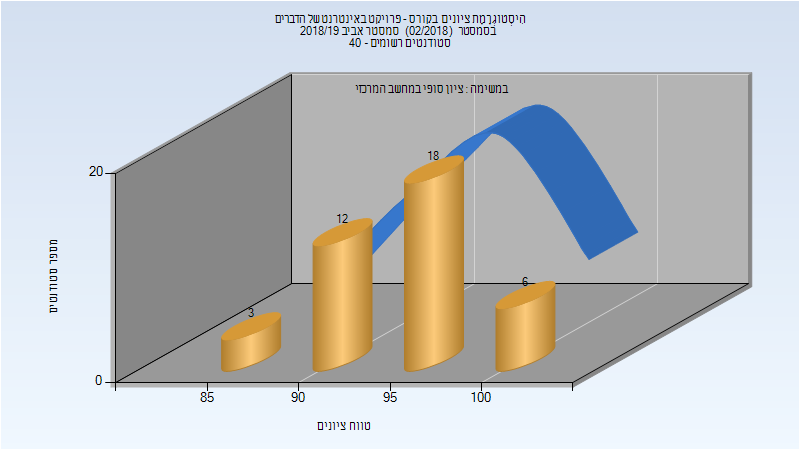
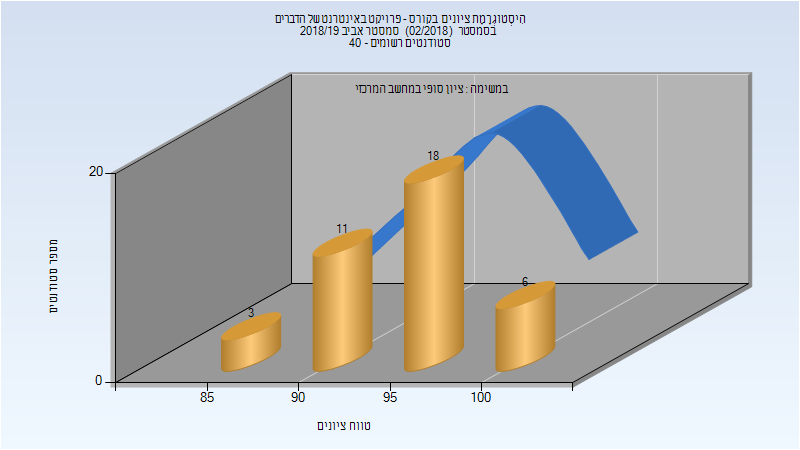
Deploy michael-maltsev/technion-histograms to github.com/michael-maltsev/technion-histograms.git:gh-pages

Changed region(s): [[0.375, 0.4356, 0.5312, 0.56], [0.5625, 0.28, 0.625, 0.3733], [0.625, 0.2489, 0.6562, 0.28]]

diff --git a/236026/index.html b/236026/index.html
@@ -22,6 +22,20 @@
   <body>
     <h1>236026 - ידע ומשחקים במערכות מבוזרות</h1>
 <h2>אביב 2019</h2>
+<table>
+<thead>
+<tr>
+<th>איש סגל</th>
+<th>תפקיד</th>
+</tr>
+</thead>
+<tbody>
+<tr>
+<td>מוזס יורם</td>
+<td>מרצה - אחראי מקצוע</td>
+</tr>
+</tbody>
+</table>
 <h3>סופי מועד א'</h3>
 <p><img src="201802/Final_A.png" alt="201802 Final_A" /></p>
 <table>

diff --git a/236332/index.html b/236332/index.html
@@ -79,13 +79,13 @@
 </thead>
 <tbody>
 <tr>
-<td>39</td>
-<td>39/0</td>
+<td>38</td>
+<td>38/0</td>
 <td>100</td>
 <td>80</td>
 <td>97</td>
-<td>86.077</td>
-<td>85</td>
+<td>86.105</td>
+<td>85.5</td>
 </tr>
 </tbody>
 </table>

diff --git a/236360/index.html b/236360/index.html
@@ -297,12 +297,12 @@
 </thead>
 <tbody>
 <tr>
-<td>174</td>
-<td>158/16</td>
+<td>173</td>
+<td>157/16</td>
 <td>91</td>
 <td>33</td>
 <td>100</td>
-<td>74.329</td>
+<td>74.419</td>
 <td>76</td>
 </tr>
 </tbody>

diff --git a/236333/index.html b/236333/index.html
@@ -65,12 +65,12 @@
 </thead>
 <tbody>
 <tr>
-<td>39</td>
-<td>39/0</td>
+<td>38</td>
+<td>38/0</td>
 <td>100</td>
 <td>88</td>
 <td>100</td>
-<td>94.462</td>
+<td>94.579</td>
 <td>95</td>
 </tr>
 </tbody>

diff --git a/236332/README.md b/236332/README.md
@@ -22,7 +22,7 @@
 
 | סטודנטים | עברו/נכשלו | אחוז עוברים | ציון מינימלי | ציון מקסימלי | ממוצע | חציון |
 | ---- | ---- | ---- | ---- | ---- | ---- | ---- |
-| 39 | 39/0 | 100 | 80 | 97 | 86.077 | 85 |
+| 38 | 38/0 | 100 | 80 | 97 | 86.105 | 85.5 |
 
 ## חורף 2019-2020
 

diff --git a/236333/README.md b/236333/README.md
@@ -18,7 +18,7 @@
 
 | סטודנטים | עברו/נכשלו | אחוז עוברים | ציון מינימלי | ציון מקסימלי | ממוצע | חציון |
 | ---- | ---- | ---- | ---- | ---- | ---- | ---- |
-| 39 | 39/0 | 100 | 88 | 100 | 94.462 | 95 |
+| 38 | 38/0 | 100 | 88 | 100 | 94.579 | 95 |
 
 ## חורף 2019-2020
 

diff --git a/236360/README.md b/236360/README.md
@@ -98,7 +98,7 @@
 
 | סטודנטים | עברו/נכשלו | אחוז עוברים | ציון מינימלי | ציון מקסימלי | ממוצע | חציון |
 | ---- | ---- | ---- | ---- | ---- | ---- | ---- |
-| 174 | 158/16 | 91 | 33 | 100 | 74.329 | 76 |
+| 173 | 157/16 | 91 | 33 | 100 | 74.419 | 76 |
 
 ## אביב 2020
 

diff --git a/236026/README.md b/236026/README.md
@@ -2,6 +2,10 @@
 
 ## אביב 2019
 
+| איש סגל | תפקיד |
+| ---- | ---- |
+| מוזס יורם | מרצה - אחראי מקצוע |
+
 ### סופי מועד א'
 
 ![201802 Final_A](201802/Final_A.png)
